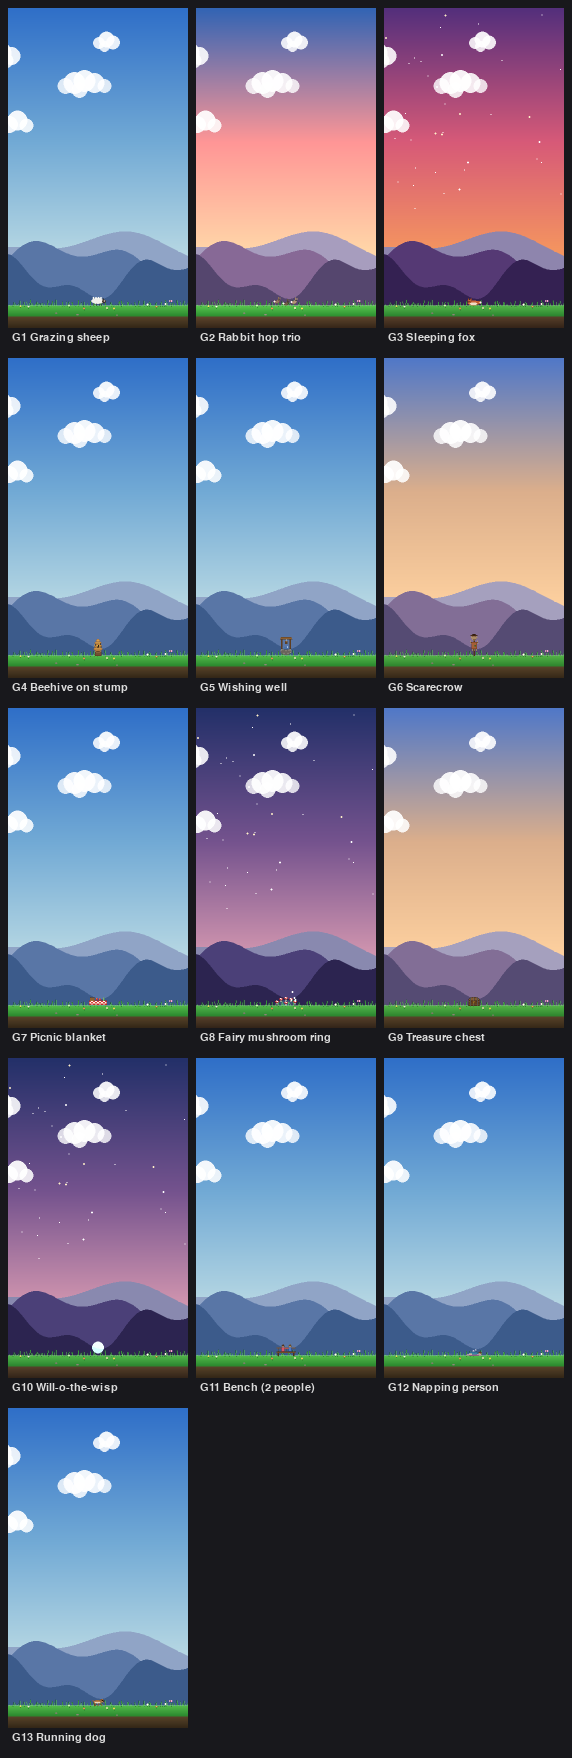
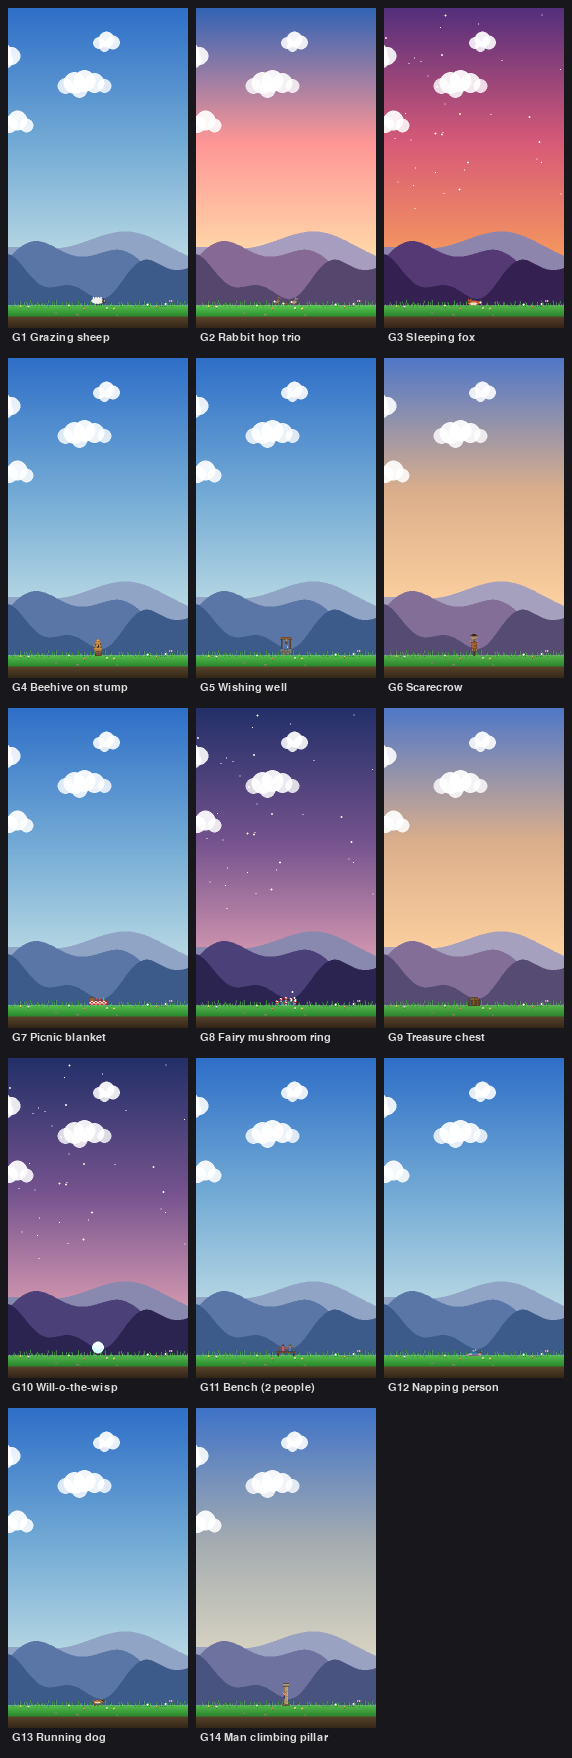
ambient: add G14 man climbing a pillar (animated 2-frame climb)

Changed region(s): [[0.3269, 0.7986, 0.6836, 1.0]]

diff --git a/game/ambient.py b/game/ambient.py
@@ -41,6 +41,7 @@ _WISP_PHASES = ((0.55, 0.72), (0.78, 0.88))    # night + predawn
 _BENCH_PHASES = ((0.10, 0.22), (0.0, 0.10), (0.96, 1.0))  # golden hour + day
 _NAPPER_PHASES = ((0.0, 0.20), (0.30, 0.40))   # day + sunset
 _DOG_PHASES = ((0.0, 0.45),)                   # day → sunset
+_CLIMBER_PHASES = ((0.0, 0.30), (0.85, 1.0))   # day + sunrise (light to see him)
 
 _FLOCK_COOLDOWN_S = 75.0
 _FIREWORKS_COOLDOWN_S = 110.0
@@ -60,6 +61,7 @@ _WISP_COOLDOWN_S = 100.0
 _BENCH_COOLDOWN_S = 120.0
 _NAPPER_COOLDOWN_S = 140.0
 _DOG_COOLDOWN_S = 100.0
+_CLIMBER_COOLDOWN_S = 130.0
 
 # Initial delay before the FIRST event of each kind in a run.
 _FLOCK_INITIAL_DELAY = (15.0, 35.0)
@@ -80,6 +82,7 @@ _WISP_INITIAL_DELAY = (30.0, 60.0)
 _BENCH_INITIAL_DELAY = (30.0, 55.0)
 _NAPPER_INITIAL_DELAY = (45.0, 75.0)
 _DOG_INITIAL_DELAY = (25.0, 50.0)
+_CLIMBER_INITIAL_DELAY = (45.0, 80.0)
 
 
 # ── V-formation flock ────────────────────────────────────────────────────────
@@ -1417,6 +1420,99 @@ class _RunningDog(_GroundEventBase):
                            GROUND_Y - sh + 1 + bob))
 
 
+# ── G14: Man climbing a pillar ───────────────────────────────────────────────
+
+def _build_climb_pillar_sprite() -> pygame.Surface:
+    """A small sandstone pillar — the climber's prop. Self-contained so
+    it doesn't conflict with the gameplay pillars."""
+    s = pygame.Surface((14, 46), pygame.SRCALPHA)
+    # Base plinth
+    pygame.draw.rect(s, (95, 80, 65), (0, 41, 14, 5))
+    pygame.draw.line(s, (45, 35, 25), (0, 41), (13, 41), 1)
+    pygame.draw.line(s, (135, 115, 90), (0, 42), (13, 42), 1)
+    # Shaft (slightly tapered)
+    pygame.draw.rect(s, (175, 150, 110), (3, 6, 8, 36))
+    pygame.draw.line(s, (130, 105, 75), (3, 6), (3, 41), 1)
+    pygame.draw.line(s, (210, 185, 140), (10, 6), (10, 41), 1)
+    # Stone-block divisions
+    for ydiv in (16, 26, 36):
+        pygame.draw.line(s, (130, 105, 75), (3, ydiv), (10, ydiv), 1)
+        pygame.draw.line(s, (200, 175, 130), (3, ydiv + 1), (10, ydiv + 1), 1)
+    # Capital (wider top)
+    pygame.draw.rect(s, (155, 130, 95), (1, 1, 12, 6))
+    pygame.draw.line(s, (45, 35, 25), (1, 1), (12, 1), 1)
+    pygame.draw.line(s, (210, 185, 140), (1, 2), (12, 2), 1)
+    pygame.draw.line(s, (45, 35, 25), (1, 6), (12, 6), 1)
+    return s
+
+
+_CLIMBER_SHIRT = (215, 75, 75)
+_CLIMBER_SHIRT_DK = (155, 35, 35)
+_CLIMBER_PANTS = (60, 70, 110)
+_CLIMBER_PANTS_DK = (35, 45, 80)
+_CLIMBER_SKIN = (235, 195, 150)
+_CLIMBER_HAIR = (75, 50, 30)
+
+
+def _draw_climber(surf, x: int, y: int, frame: int) -> None:
+    """Tiny man clinging to a wall — body center at (x, y), facing left
+    into the pillar (left side of the column). 2-frame climbing pose."""
+    # Body / shirt
+    pygame.draw.rect(surf, _CLIMBER_SHIRT_DK, (x - 1, y - 1, 3, 5))
+    pygame.draw.rect(surf, _CLIMBER_SHIRT, (x - 1, y - 1, 2, 4))
+    # Pants
+    pygame.draw.rect(surf, _CLIMBER_PANTS_DK, (x - 1, y + 4, 3, 3))
+    pygame.draw.rect(surf, _CLIMBER_PANTS, (x - 1, y + 4, 2, 3))
+    # Head
+    pygame.draw.circle(surf, _CLIMBER_SKIN, (x, y - 3), 2)
+    pygame.draw.polygon(surf, _CLIMBER_HAIR,
+                        [(x - 2, y - 4), (x + 2, y - 4), (x, y - 5)])
+    # Limbs reach toward the pillar (left side, where x < this point)
+    if frame == 0:
+        # Upper hand reaching high-left, lower hand near body
+        pygame.draw.line(surf, _CLIMBER_SKIN, (x, y), (x - 3, y - 3), 1)
+        pygame.draw.line(surf, _CLIMBER_SKIN, (x + 1, y + 1), (x - 1, y + 2), 1)
+        # Legs: upper foot up-left, lower foot down
+        pygame.draw.line(surf, _CLIMBER_PANTS, (x, y + 7), (x - 2, y + 6), 1)
+        pygame.draw.line(surf, _CLIMBER_PANTS, (x + 1, y + 7), (x + 1, y + 9), 1)
+    else:
+        # Swap: other hand reaches high
+        pygame.draw.line(surf, _CLIMBER_SKIN, (x + 1, y), (x - 2, y - 2), 1)
+        pygame.draw.line(surf, _CLIMBER_SKIN, (x, y + 1), (x - 3, y + 2), 1)
+        # Legs swap
+        pygame.draw.line(surf, _CLIMBER_PANTS, (x, y + 7), (x, y + 9), 1)
+        pygame.draw.line(surf, _CLIMBER_PANTS, (x + 1, y + 7), (x - 1, y + 6), 1)
+
+
+class _Climber(_GroundEventBase):
+    """A tiny figure scaling the side of a sandstone pillar. Slowly inches
+    upward over the event's lifetime; 2-frame limb animation sells the
+    motion."""
+    DURATION_MAX = 50.0
+
+    def __init__(self, palette, rng=None):
+        super().__init__(palette, rng)
+        self._pillar = _build_climb_pillar_sprite()
+        self._climb_t = 0.0
+
+    def draw(self, surf):
+        sw, sh = self._pillar.get_size()
+        px = int(self.x) - sw // 2
+        py = GROUND_Y - sh + 1
+        surf.blit(self._pillar, (px, py))
+        # Climber inches up: from near-base to near-cap over ~35 s
+        progress = min(1.0, self.t / 35.0)
+        # Easing — slows slightly near the top
+        eased = progress * (1.05 - progress * 0.05)
+        climb_y = py + sh - 14 - int(eased * (sh - 22))
+        # Frame toggle (faster strides while reaching new holds)
+        frame = int(self.t * 3.5) % 2
+        # Body anchor on the LEFT side of the pillar (right side of body
+        # touches the column edge)
+        body_x = px + 3
+        _draw_climber(surf, body_x, climb_y, frame)
+
+
 # ── Controller ───────────────────────────────────────────────────────────────
 
 class AmbientScenes:
@@ -1448,6 +1544,7 @@ class AmbientScenes:
         self.bench: _Bench | None = None
         self.napper: _Napper | None = None
         self.dog: _RunningDog | None = None
+        self.climber: _Climber | None = None
         self._flock_cool = random.uniform(*_FLOCK_INITIAL_DELAY)
         self._fireworks_cool = random.uniform(*_FIREWORKS_INITIAL_DELAY)
         self._balloon_cool = random.uniform(*_BALLOON_INITIAL_DELAY)
@@ -1466,6 +1563,7 @@ class AmbientScenes:
         self._bench_cool = random.uniform(*_BENCH_INITIAL_DELAY)
         self._napper_cool = random.uniform(*_NAPPER_INITIAL_DELAY)
         self._dog_cool = random.uniform(*_DOG_INITIAL_DELAY)
+        self._climber_cool = random.uniform(*_CLIMBER_INITIAL_DELAY)
 
     @staticmethod
     def _in_window(phase: float, windows) -> bool:
@@ -1557,6 +1655,8 @@ class AmbientScenes:
              _NAPPER_COOLDOWN_S, 30),
             ("dog", _RunningDog, _DOG_PHASES, "_dog_cool",
              _DOG_COOLDOWN_S, 25),
+            ("climber", _Climber, _CLIMBER_PHASES, "_climber_cool",
+             _CLIMBER_COOLDOWN_S, 30),
         ):
             inst = getattr(self, slot_name)
             if inst is not None:
@@ -1588,7 +1688,7 @@ class AmbientScenes:
         # halos sit over (not under) the structures.
         for slot_name in ("sheep", "rabbits", "fox", "beehive", "well",
                           "scarecrow", "picnic", "chest", "bench", "napper",
-                          "dog", "mushring", "wisp"):
+                          "dog", "climber", "mushring", "wisp"):
             inst = getattr(self, slot_name)
             if inst is not None:
                 inst.draw(surf)

diff --git a/tools/render_ground_events.py b/tools/render_ground_events.py
@@ -42,6 +42,7 @@ EVENTS = [
     ("g11_bench",      "G11 Bench (2 people)",  _amb._Bench,         0.05, 0.0),
     ("g12_napper",     "G12 Napping person",    _amb._Napper,        0.05, 0.4),
     ("g13_dog",        "G13 Running dog",       _amb._RunningDog,    0.05, 0.06),
+    ("g14_climber",    "G14 Man climbing pillar", _amb._Climber,     0.10, 15.0),
 ]
 
 OUT = pathlib.Path(__file__).parent.parent / "screenshots" / "ground_events"
